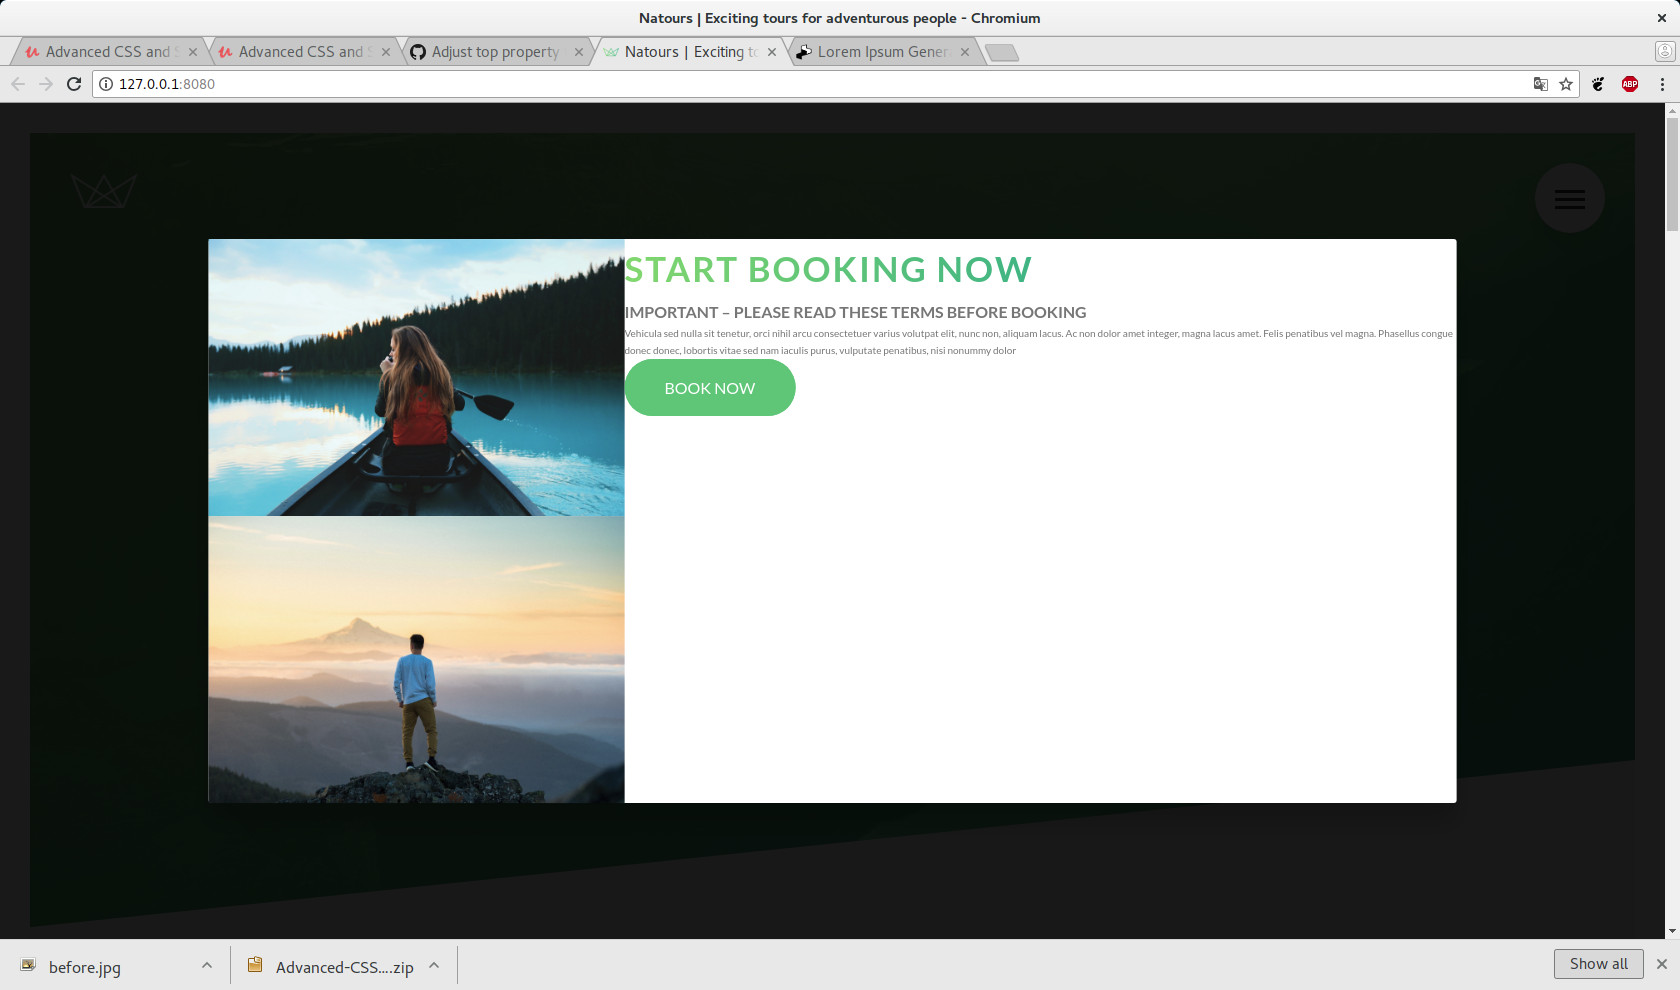
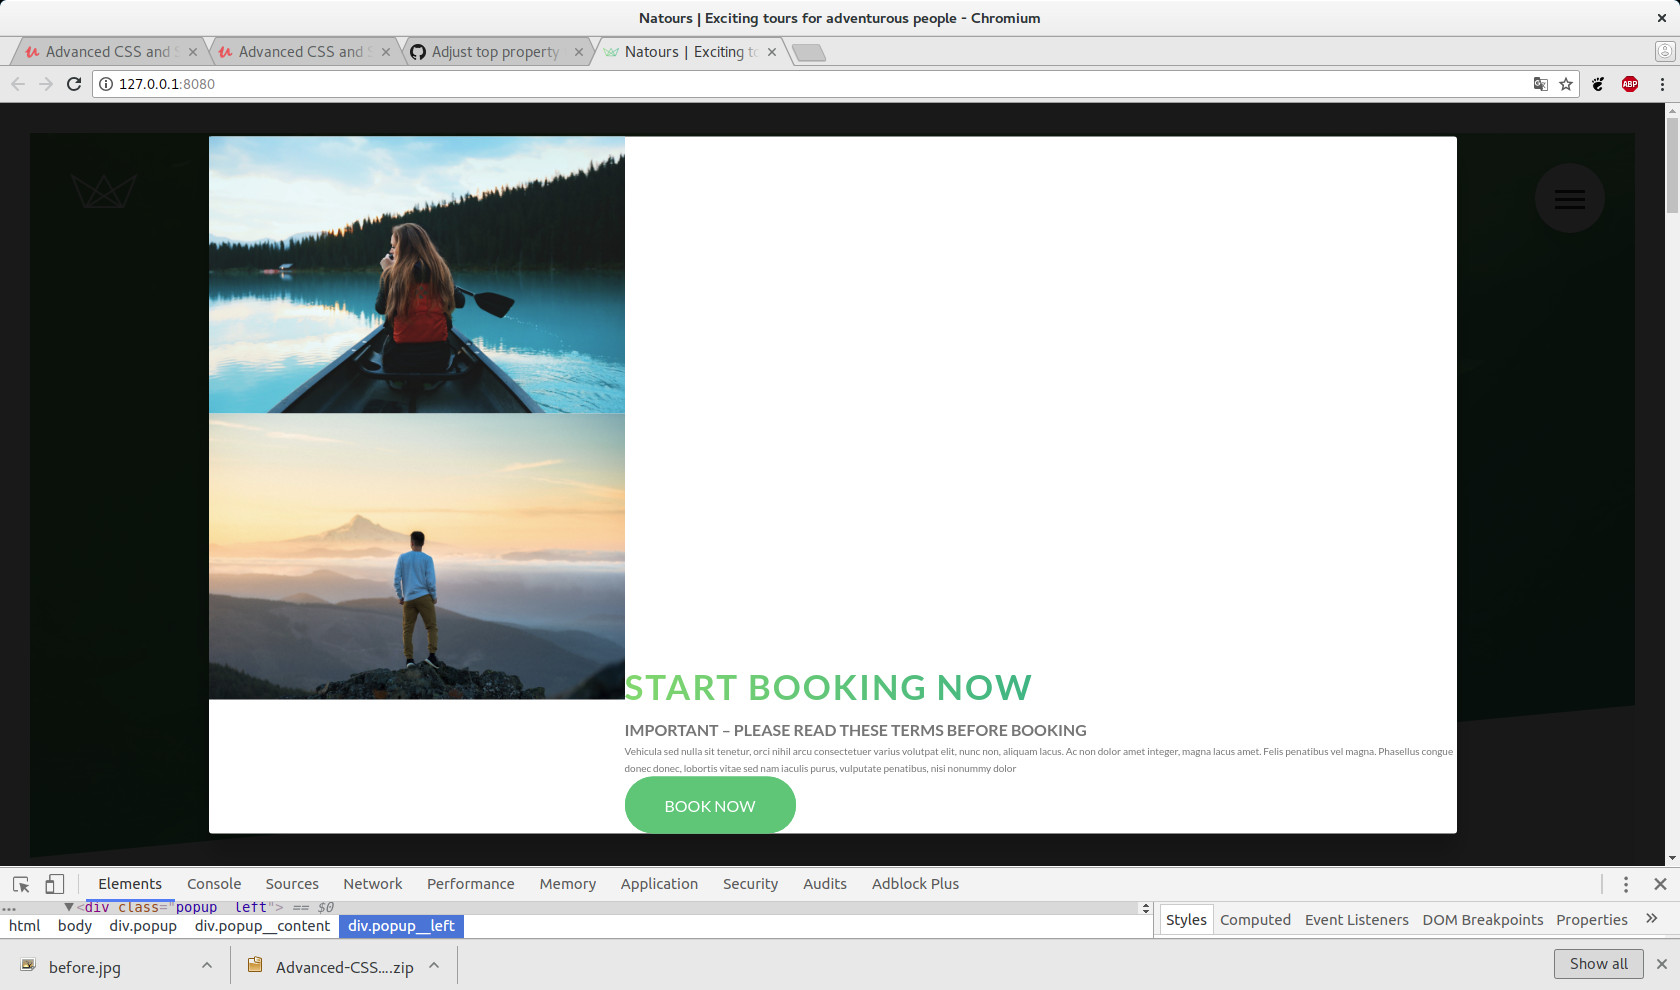
Get rid of floats. The 2 columns of the overlay have the same heights now.

diff --git a/sass/components/_popup.scss b/sass/components/_popup.scss
@@ -14,16 +14,17 @@
     background-color: $color-white;
     box-shadow: 0 2rem 4rem rgba($color-black, .2);
     border-radius: 3px;
+    display: table;
   }
   
   &__left {
     width: 33.333333%;
-    float: left;
+    display: table-cell;
   }
   
   &__right {
     width: 66.666666%;
-    float: left;
+    display: table-cell;
   }
   
   &__img {
